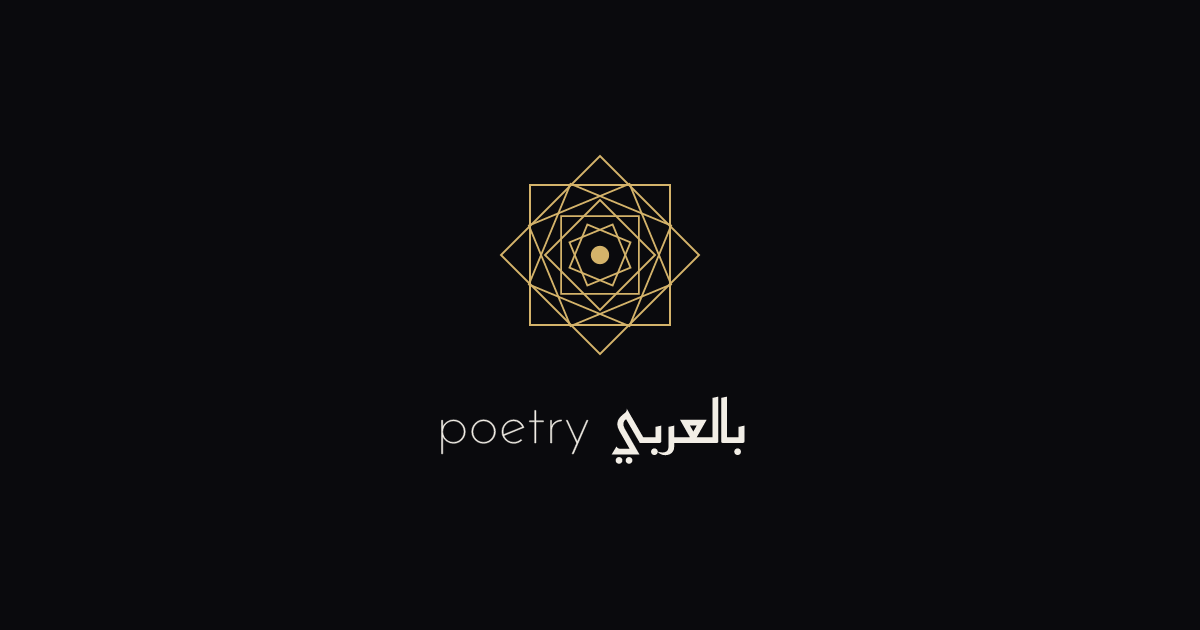
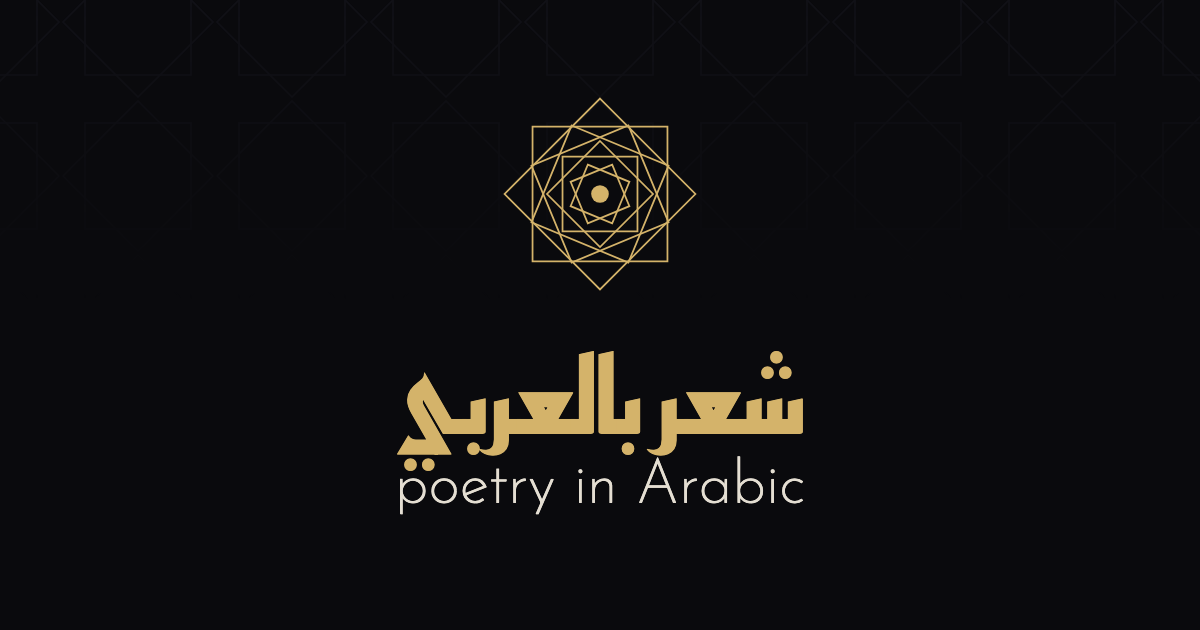
Match the splash lockup in branded link previews

Changed region(s): [[0.3083, 0.1508, 0.6783, 0.8143], [0.6167, 0.573, 0.6783, 0.6032]]

diff --git a/index.html b/index.html
@@ -51,7 +51,7 @@
       content="Discover classical and modern Arabic poetry with AI-powered insights, audio recitation, and a curated collection of 84,000+ poems."
     />
     <meta property="og:image" content="https://poetry-bil-araby.vercel.app/link-preview.png" />
-    <meta property="og:image:alt" content="Gold mark above poetry بالعربي" />
+    <meta property="og:image:alt" content="Gold mark above شعر بالعربي and poetry in Arabic" />
     <meta property="og:site_name" content="poetry بالعربي" />
     <meta property="og:locale" content="en_US" />
     <meta property="og:locale:alternate" content="ar_SA" />
@@ -65,7 +65,7 @@
       content="Discover classical and modern Arabic poetry with AI-powered insights and audio recitation."
     />
     <meta property="twitter:image" content="https://poetry-bil-araby.vercel.app/link-preview.png" />
-    <meta property="twitter:image:alt" content="Gold mark above poetry بالعربي" />
+    <meta property="twitter:image:alt" content="Gold mark above شعر بالعربي and poetry in Arabic" />
 
     <!-- Additional SEO -->
     <link rel="canonical" href="https://poetry-bil-araby.vercel.app/" />

diff --git a/web/index.html b/web/index.html
@@ -12,7 +12,7 @@
     <meta property="og:image" content="https://poetry-bil-araby.vercel.app/link-preview.png" />
     <meta property="og:image:width" content="1200" />
     <meta property="og:image:height" content="630" />
-    <meta property="og:image:alt" content="Gold mark above poetry بالعربي" />
+    <meta property="og:image:alt" content="Gold mark above شعر بالعربي and poetry in Arabic" />
     <meta name="twitter:card" content="summary_large_image" />
     <link rel="preconnect" href="https://fonts.googleapis.com" />
     <link rel="preconnect" href="https://fonts.gstatic.com" crossorigin />

diff --git a/middleware.js b/middleware.js
@@ -54,7 +54,7 @@ export default async function middleware(request) {
     title: defaultShareTitle,
     description: siteDescription,
     image: new URL('/link-preview.png', url.origin).href,
-    alt: `Gold mark above ${shareBrand}`,
+    alt: 'Gold mark above شعر بالعربي and poetry in Arabic',
     width: 1200,
     height: 630,
   };
